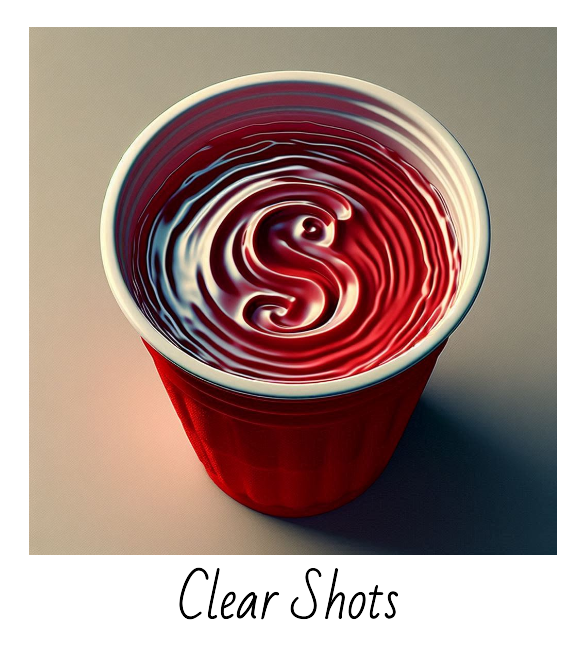
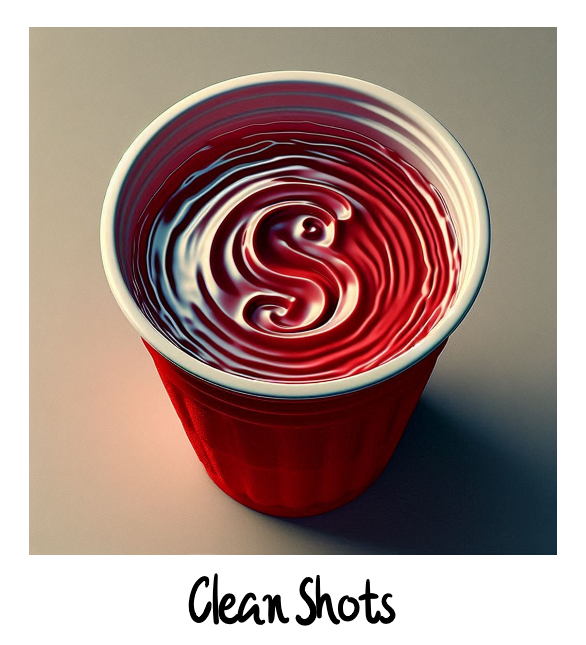
need to add upload button and download button (frontend)

Changed region(s): [[0.3072, 0.8682, 0.6758, 0.9922]]

diff --git a/template/upload.html b/template/upload.html
@@ -3,9 +3,12 @@
 <head>
     <meta charset="UTF-8">
     <meta name="viewport" content="width=device-width, initial-scale=1.0">
-    <title>Clear Shots</title>
+    <title>Clean Shots</title>
     <link rel="stylesheet" href="static/styles.css">
     <link rel="icon" type="image/png" href="static/favicon.png">
+    <link rel="preconnect" href="https://fonts.googleapis.com">
+    <link rel="preconnect" href="https://fonts.gstatic.com" crossorigin>
+    <link href="https://fonts.googleapis.com/css2?family=Caveat:wght@400..700&display=swap" rel="stylesheet">
 </head>
 <body>
     <div class="navigation-bar">
@@ -14,38 +17,22 @@
             style="width: 50px; height: 50px; box-shadow: 3px 3px 10px rgba(0, 0, 0, 0.5); margin-top: 10px;"/>
         </div>
     </div>
-    <h1>Upload an Image for Prediction</h1>
-    <form id="uploadForm">
-        <label for="file">Choose an image:</label>
-        <input type="file" id="file" name="file" accept="image/*" required>
-        <button type="submit">Upload</button>
-    </form>
-    <div id="result"></div>
+    <div class="container">
+        <div class="column1">
+            <img class="img2_style" src="/static/img2.jpg" alt="img" width="60%">
+            <img class="img1_style" src="/static/rectangle.jpeg" alt="initiation" width="90%">
+        </div>
+        <div class="columnMid">
+            <p class="caveat-font">Have a folder with tons of pictures for social media, but cannot use the ones with traces of alcohol in them? </p>
+            <p class="caveat-font">Fortunately for you, Clean Shots will filter out all the images with possible traces of alcohol and give you a folder of images you can look through that is safe for social media. </p>
+            <p class="caveat-font">Press the button below to upload your folder (png, jpg, & jpeg images)</p>
 
-    <script>
-        document.getElementById('uploadForm').addEventListener('submit', async function(event) {
-            event.preventDefault();
-            const fileInput = document.getElementById('file');
-            const formData = new FormData();
-            formData.append('file', fileInput.files[0]);
 
-            try {
-                const response = await fetch('/predict', {
-                    method: 'POST',
-                    body: formData
-                });
-
-                if (!response.ok) {
-                    throw new Error('Network response was not ok');
-                }
-
-                const result = await response.json();
-                document.getElementById('result').innerText = `Prediction score: ${result.score}`;
-            } catch (error) {
-                console.error('There was a problem with the fetch operation:', error);
-                document.getElementById('result').innerText = 'Error: Could not get prediction';
-            }
-        });
-    </script>
+        </div>
+        <div class="column3">
+            <img class="img4_style" src="/static/rectangle2.jpeg" alt="square" width="100%">
+            <img class="img3_style" src="/static/square.png" alt="square" width="80%">
+        </div>
+    </div>
 </body>
 </html>

diff --git a/static/styles.css b/static/styles.css
@@ -1,25 +1,84 @@
+html, body {
+    height: 95.4%;
+    margin: 0;
+}
 body {
-    font-family: Arial, sans-serif;
     margin: 0px;
     background-color: #faefd2;
-}
-h1 {
-    color: #998577;
-    margin: 20px;
-}
-form {
-    margin: 20px;
 }
 #navigation-container {
     width: 1200px;
     margin: 0 auto;
     height: 70px;
-  }
+}
+.caveat-font {
+  font-family: "Caveat", cursive;
+  font-size: 20px;
+  font-weight: 700;
+  font-style: normal;
+}
   
-  .navigation-bar {
-    box-shadow: 0px .5px 15px rgba(0, 0, 0, 0.5);
-    background-color: #d2b48c;
+.navigation-bar {
+    /* box-shadow: 0px .5px 15px rgba(0, 0, 0, 0.5); */
+    background-color: #faefd2;
     height: 70px;
     width: 100%;
     text-align:center;
-  }
+}
+.text {
+    background-color: aqua;
+    height: 300px;
+    text-align: center;
+    margin: auto;
+    width: 30%;
+    padding: 10px;
+}
+.container {
+    display: flex;
+    width: 100%;
+    height: 100%;
+    background-color: #faefd2;
+    margin: 0;
+}
+.column1 {
+    flex: 1;
+    margin: 10px;
+    background-color: #faefd2;
+    padding: 20px;
+    border-radius: 5px;
+}
+.columnMid {
+    flex: 1;
+    margin: 10px;
+    background-color: #faefd2;
+    padding: 20px;
+    border-radius: 5px;
+    text-align: center;
+}
+.column3 {
+    flex: 1;
+    margin: 10px;
+    background-color: #faefd2;
+    padding: 20px;
+    border-radius: 5px;
+    text-align: center;
+}
+.img1_style {
+    box-shadow: 4px 4px 15px rgba(0, 0, 0, 0.8);  
+    margin-top: 35px;
+    margin-left: 50px; 
+}
+.img2_style {
+    box-shadow: 4px 4px 15px rgba(0, 0, 0, 0.8);  
+    margin-left: 10px;
+}
+.img3_style {
+    box-shadow: 4px 4px 15px rgba(0, 0, 0, 0.8);  
+    margin-top: 60px;
+}
+.img4_style {
+    box-shadow: 4px 4px 15px rgba(0, 0, 0, 0.8);  
+    margin-top: 20px;
+}
+
+
